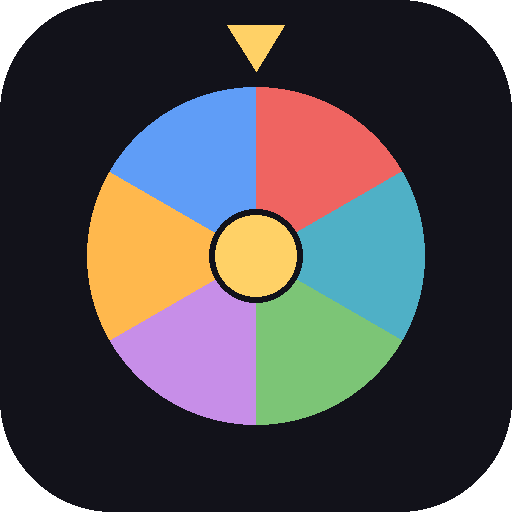
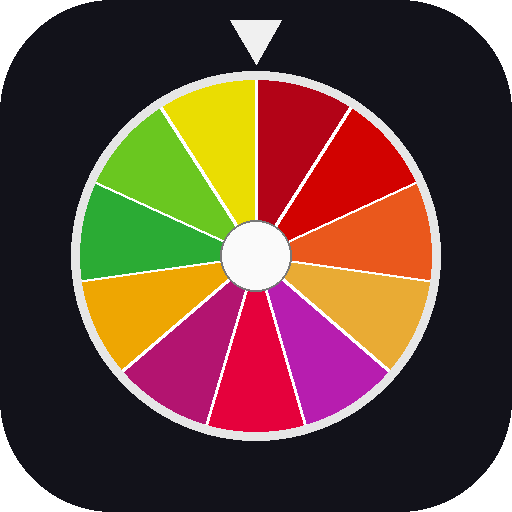
Add files via upload

diff --git a/index.html b/index.html
@@ -23,17 +23,17 @@
     --good:#4fd68c;
     --bad:#ff5d6c;
 
-    --c-historia:#ef6461;
-    --c-ciencia:#4fb0c6;
-    --c-geografia:#7cc576;
-    --c-cine:#c78ee8;
-    --c-deportes:#ffb84d;
-    --c-arte:#5f9df7;
-    --c-musica:#ff8fab;
-    --c-literatura:#b08968;
-    --c-tecnologia:#64dfdf;
-    --c-gastronomia:#e07a5f;
-    --c-actualidad:#849cc4;
+    --c-historia:#b30317;
+    --c-ciencia:#d20200;
+    --c-geografia:#ea581c;
+    --c-cine:#e9ab34;
+    --c-deportes:#b71daf;
+    --c-arte:#e5013c;
+    --c-musica:#b31470;
+    --c-literatura:#eea602;
+    --c-tecnologia:#2bab34;
+    --c-gastronomia:#6ac720;
+    --c-actualidad:#eadd02;
   }
   *{box-sizing:border-box;}
   html,body{
@@ -1016,7 +1016,10 @@ Responde ÚNICAMENTE con un array JSON válido, sin texto adicional, sin backtic
     text.setAttribute('dominant-baseline','middle');
     text.setAttribute('font-size','11');
     text.setAttribute('font-weight','800');
-    text.setAttribute('fill','rgba(0,0,0,0.72)');
+    text.setAttribute('fill','#ffffff');
+    text.setAttribute('stroke','rgba(0,0,0,0.55)');
+    text.setAttribute('stroke-width','2.5');
+    text.setAttribute('paint-order','stroke');
     text.setAttribute('transform', `rotate(${midAngle}, ${labelPos.x}, ${labelPos.y})`);
     text.textContent = t.icon + ' ' + t.name;
     svg.appendChild(text);
